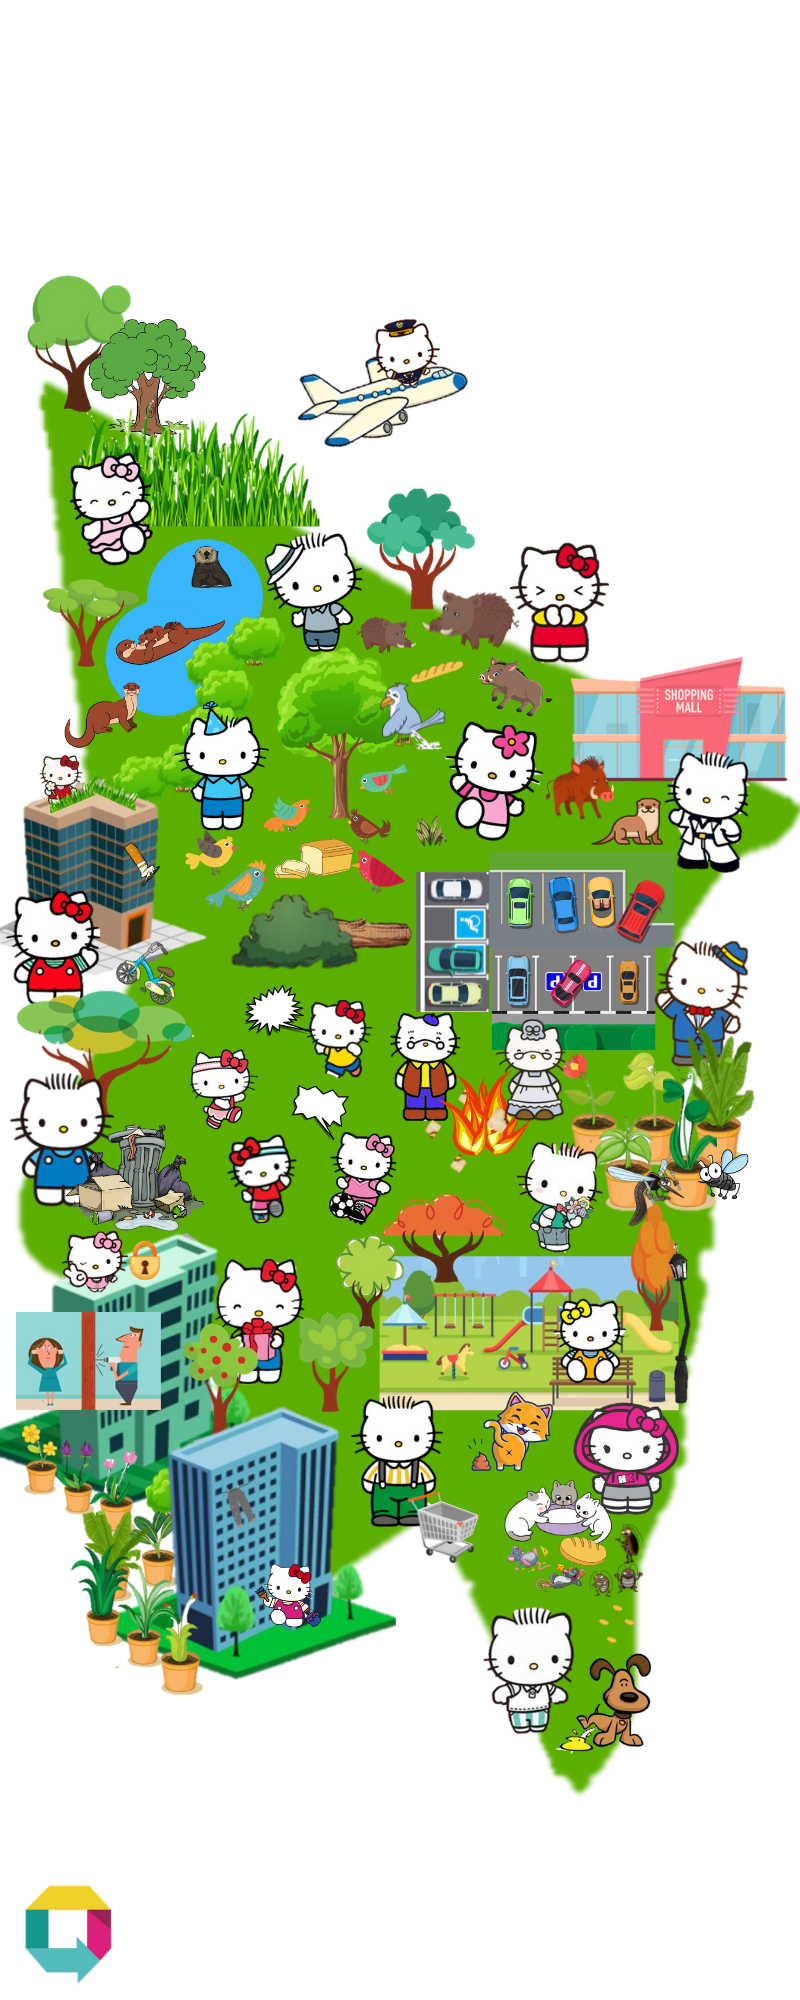
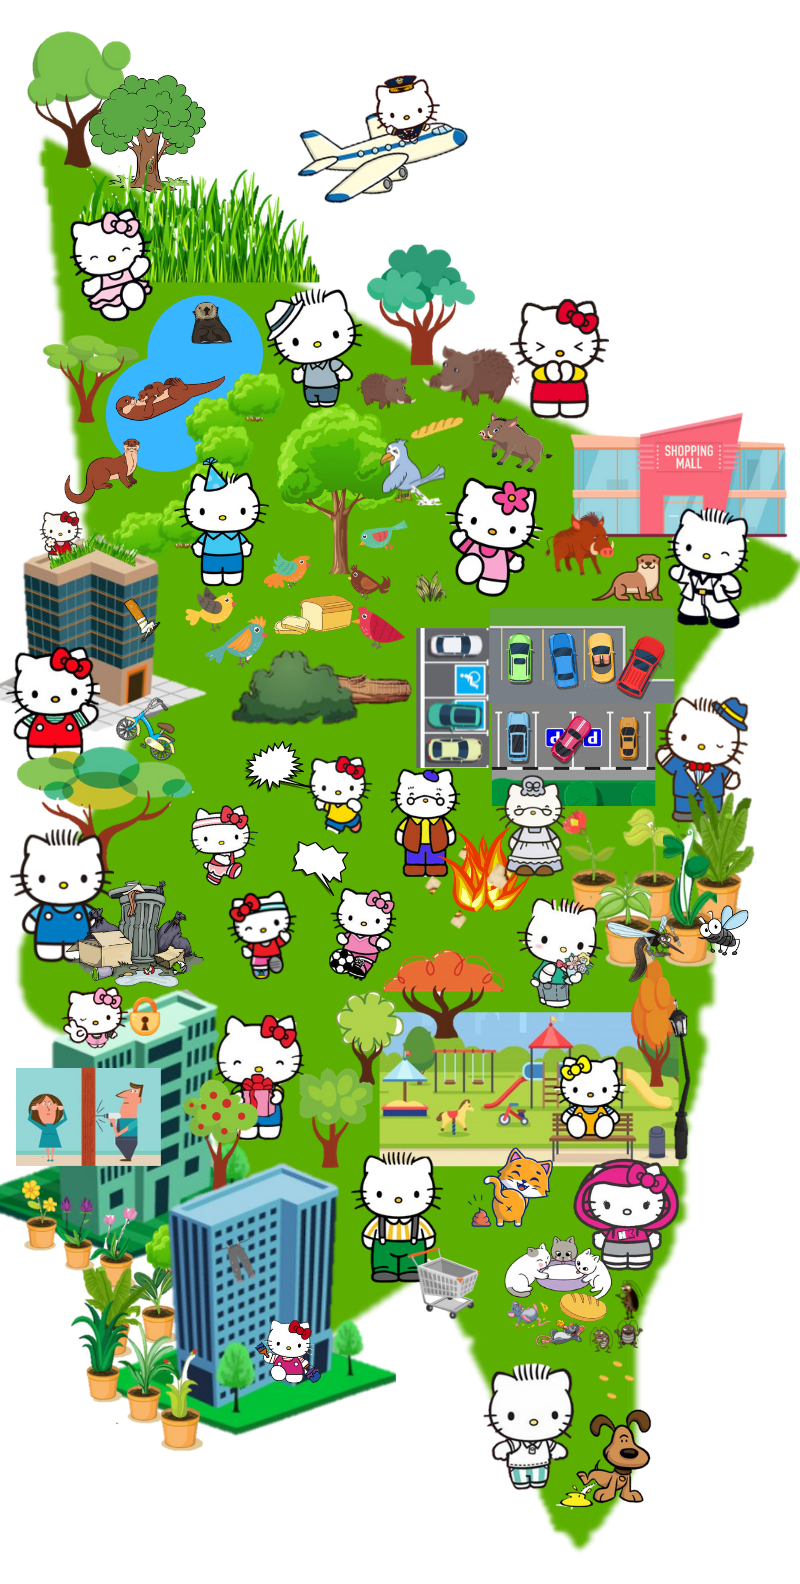
skeleton up

diff --git a/index.html b/index.html
@@ -12,7 +12,7 @@
 
       <h1 id="title"> Farewell Jingjing</h1>
       <h3 id="description">Thanks for all your contributions to MSO, all the best in your future endeavours!</h3>
-      <h4 id="description2">From your friends at MSO and CISD</h4>
+      <h4 id="description2"></h4>
       
       
       <!-- Legend -->
@@ -23,9 +23,16 @@
           <button id="lightButton">@North East</button> 
           <button id="othersButton">Others</button> 
       </div> -->
-      <p id="description2">Click on the dots on the map to view individual messages.</p><p><i> P.s. In commemoration of all the data quirks you've had to conquer, navigate to Russia for a few memories ;)</i></p>
+      <p id="description2">Click on the municipal issues on the map to view individual messages.</p><p><i> P.s. Does the shape of the map look familiar?:p </i></p>
+
+      <div class="legend">
+          <button id="ewasteButton">HIDDEN MEANINGS</button>
+          <button id="cardMap">MAP</button>
+      </div>
+
       <img id="img_side" src="js/images/oneservice-logo.png" alt="OSLogo" style="width:100px;height:100px;">
-      <p id="description2">27 Nov 2020</p>
+      <p id="description2">30 Jun 2021</p>
+      <p id="description2"><i>Hello Kitty Muni Map by Haziah<br> Website by Leanne Chan</i></p>
 
 
     </div>
@@ -38,7 +45,7 @@
     <script src="js/jquery-2.2.0.js"></script>
     <script src="js/underscore.js"></script>
     <script src="js/leaflet.js"></script>
-
+    <script src="js/slideModel.js"></script> 
     <script src="js/helperFunctions.js"></script> 
     <!-- <script src="js/slideModel.js"></script> -->
     <script src="js/main.js"></script>

diff --git a/css/style.css b/css/style.css
@@ -49,7 +49,7 @@ button {
 .map {
     position: absolute;
     right: 0px;
-    left: 25%;
+    left: 50%;
     height: 100%;
     top: 0;
 }
@@ -57,36 +57,30 @@ button {
 .sidebar {
   position: absolute;
   left: 0%;
-  right: 25%;
-  width: 25%;
+  right: 50%;
+  width: 50%;
   top: 0%;
   bottom: 0;
   overflow-y: auto;
   padding: 1%;
   font-size: 16px;
 }
-/*
-.legend{
-    position: absolute;
-    left: 0px;
-    width: 100%;
-    top:60%;
-    overflow-y: auto;
-    padding: 0px;
-    font-size: 12px;
-}*/
 
-/*.navButton{
-    position: absolute;
-    left: 0px;
-    width: 400px;
-    top: 80%;
-    bottom:0;
-    overflow-y: auto;
-    padding: 20px;
-    font-size: 16px;
+button {
+  background-color: #CC3798; 
+  border-radius: 5px;
+  color: black;
+  padding: 7px 15px;
+  text-align: center;
+  text-decoration: none;
+  display: inline-block;
+  font-size: 16px;
 }
-*/
+
+#ewasteButton{
+  background-color: #77B2A5;
+}
+
 #title{
   color: #30b4b6;
   font-size: xxx-large;

diff --git a/js/slideModel.js b/js/slideModel.js
@@ -1,0 +1,34 @@
+/* ================================
+Week 6 Assignment: Slide Model
+================================ */
+
+$('#cardMap').click(function(e) {
+
+	map.removeLayer(image)
+	
+	bounds = [[0,0], [2000,1200]]
+	image = L.imageOverlay('js/images/jj_card.png', bounds).addTo(map);
+
+	map.fitBounds(bounds);
+});
+
+
+$('#ewasteButton').click(function(e) {
+	// clear the current map
+	// map.remove()
+	// add a new image to map 
+
+	// map = L.map('map', {
+ //    crs: L.CRS.Simple,
+ //    minZoom: -2
+ //    });
+ 	map.removeLayer(image)
+	bounds = [[0,0], [1254, 904]]
+	image = L.imageOverlay('js/images/hidden_meanings.png', bounds).addTo(map);
+
+	map.fitBounds(bounds);
+});
+
+
+
+

diff --git a/js/main.js b/js/main.js
@@ -8,10 +8,10 @@
 
 var map = L.map('map', {
     crs: L.CRS.Simple,
-    minZoom: -1
+    minZoom: -2
 });
 
-var bounds = [[0,0], [2000,800]]
+var bounds = [[0,0], [2000,1200]]
 var image = L.imageOverlay('js/images/jj_card.png', bounds).addTo(map);
 
 map.fitBounds(bounds);
